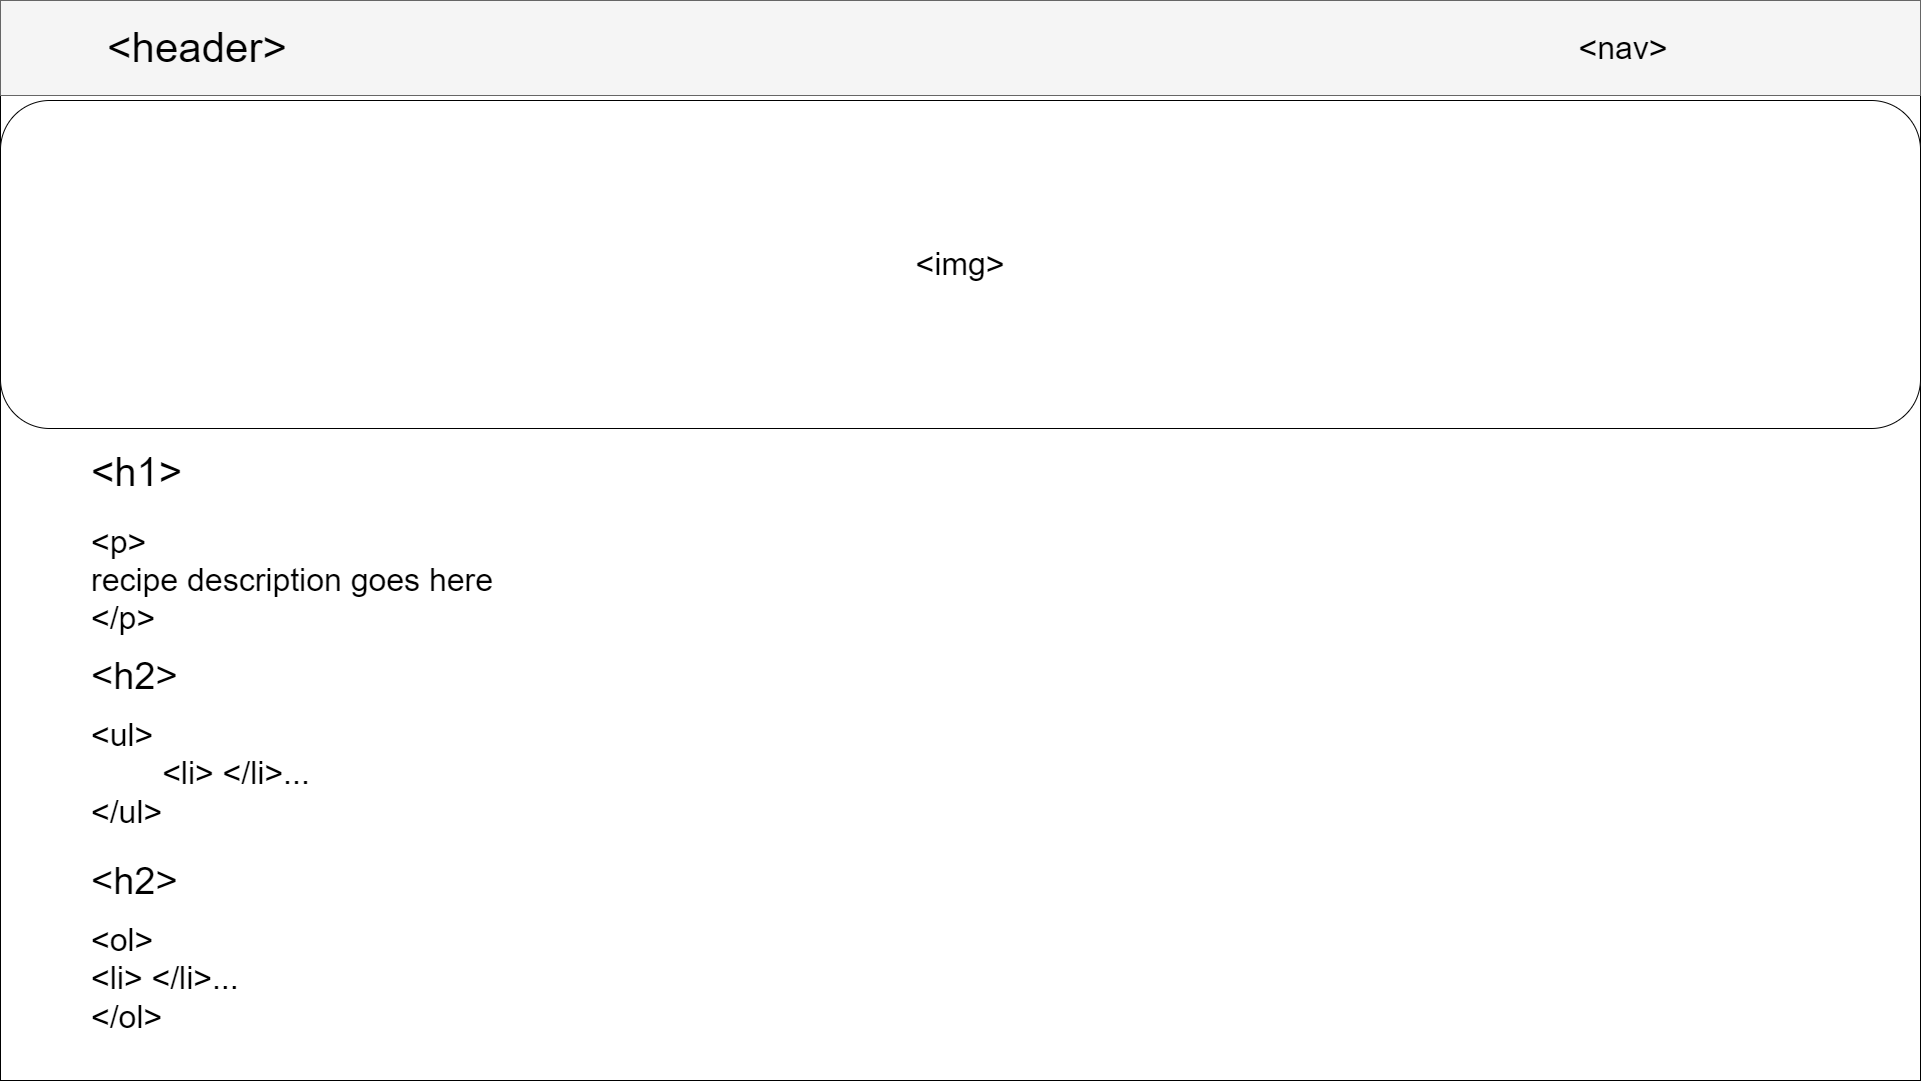
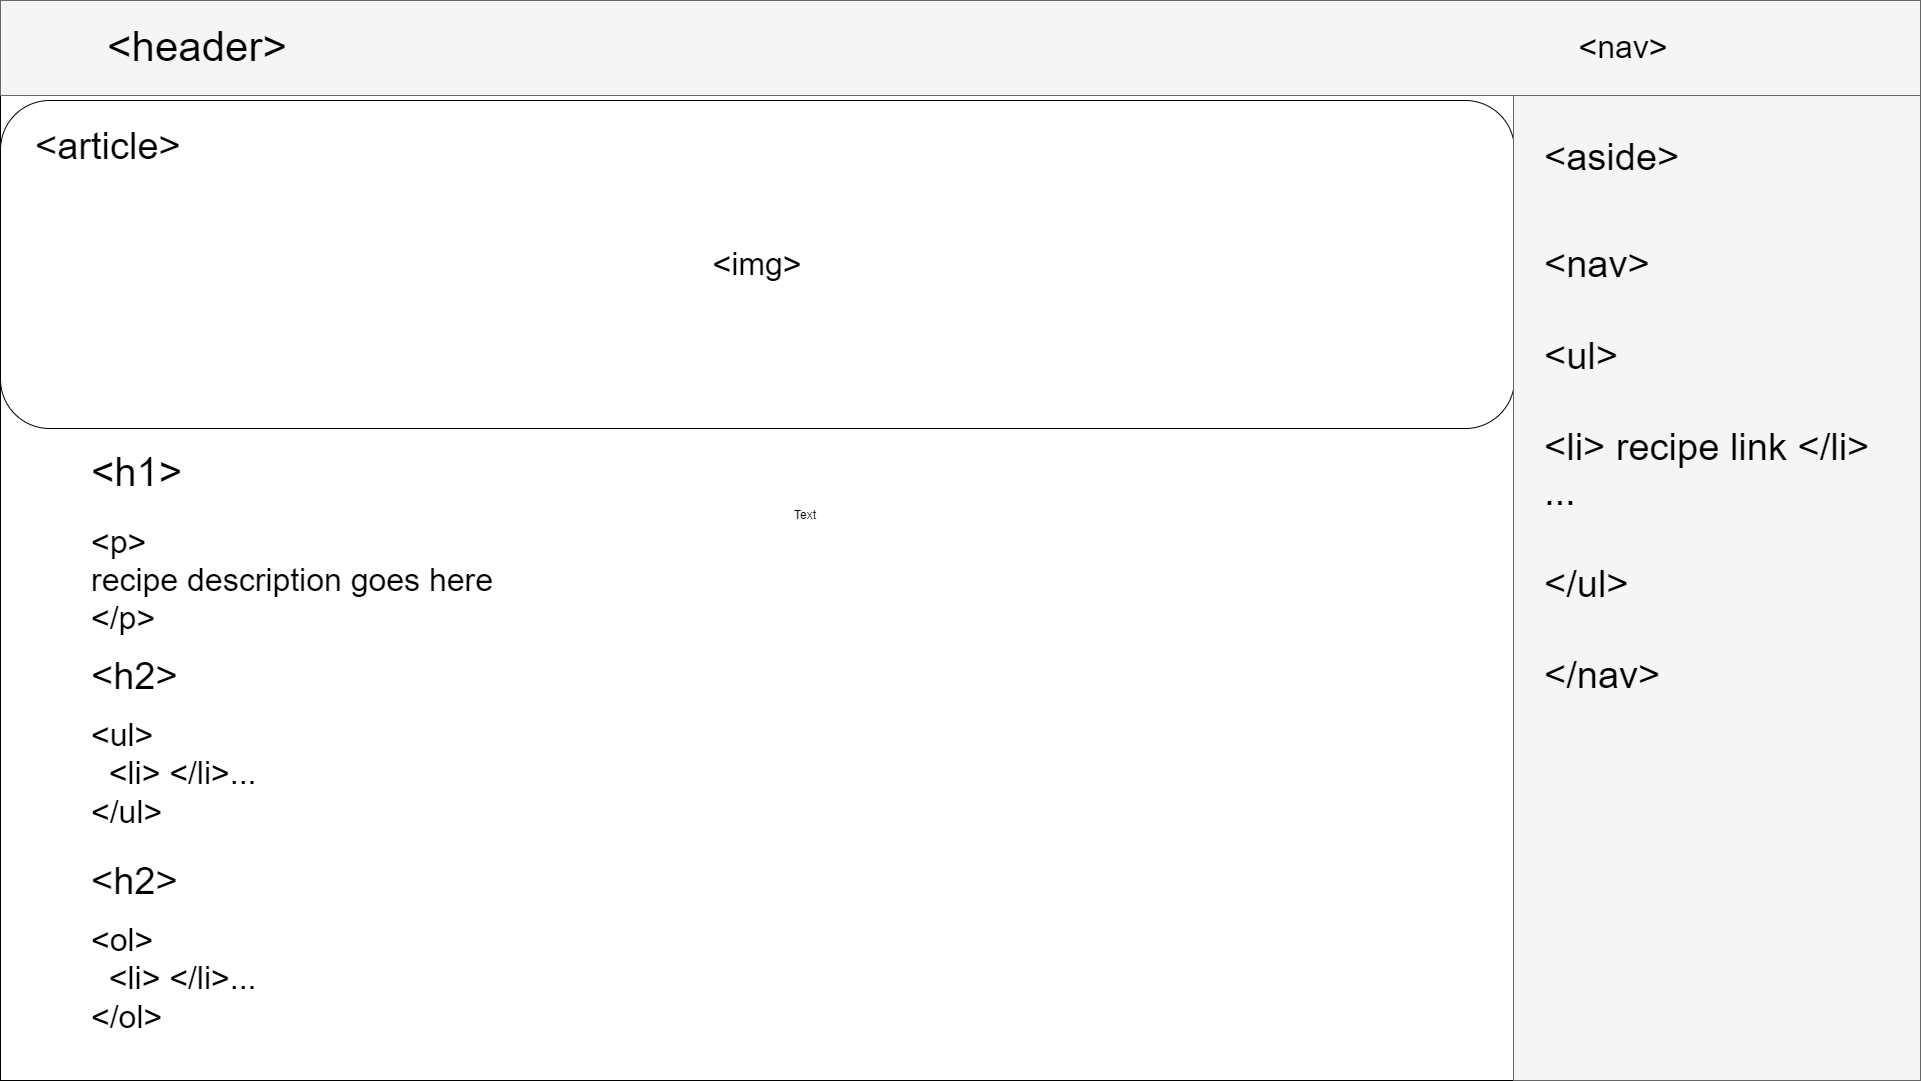
update aside

diff --git a/Week_2/index.html b/Week_2/index.html
@@ -22,24 +22,38 @@
             </ul>
         </nav>
     </header>
-    <img src="" title="recipe image" alt="[recipe image goes here]"/>
-    <h1>Recipe Name</h1>
-    <p>
-        Recipe Description: Lorem ipsum dolor sit amet, consectetur adipiscing elit, sed do eiusmod tempor incididunt ut 
-        labore et dolore magna aliqua. Ut enim ad minim veniam, quis nostrud exercitation ullamco laboris nisi ut aliquip ex 
-        ea commodo consequat. Duis aute irure dolor in reprehenderit in voluptate velit esse cillum dolore eu fugiat nulla pariatur.
-    </p>
-    <h2>Ingredients</h2>
-    <ul>
-        <li>Item 1</li>  
-        <li>Item 2</li>   
-        <li>Item 3</li>    
-    </ul>
-    <h2>Instructions</h2>
-    <ol>
-        <li>Item 1</li>  
-        <li>Item 2</li>   
-        <li>Item 3</li>    
-    </ol>
+    <article>
+        <img src="" title="recipe image" alt="[recipe image goes here]"/>
+        <h1>Recipe Name</h1>
+        <p>
+            Recipe Description: Lorem ipsum dolor sit amet, consectetur adipiscing elit, sed do eiusmod tempor incididunt ut 
+            labore et dolore magna aliqua. Ut enim ad minim veniam, quis nostrud exercitation ullamco laboris nisi ut aliquip ex 
+            ea commodo consequat. Duis aute irure dolor in reprehenderit in voluptate velit esse cillum dolore eu fugiat nulla pariatur.
+        </p>
+        <h2>Ingredients</h2>
+        <ul>
+            <li>Item 1</li>  
+            <li>Item 2</li>   
+            <li>Item 3</li>    
+        </ul>
+        <h2>Instructions</h2>
+        <ol>
+            <li>Item 1</li>  
+            <li>Item 2</li>   
+            <li>Item 3</li>    
+        </ol>
+    </article>
+    <aside>
+        Other Recipes
+        <nav>
+            <ul>
+                <li><a href="#">Recipe 1</a></li>
+                <li><a href="#">Recipe 2</a></li>
+                <li><a href="#">Recipe 3</a></li>
+                <li><a href="#">Recipe 4</a></li>
+                <li><a href="#">Recipe 5</a></li>
+            </ul>
+        </nav>
+    </aside>
   </body>
 </html>
